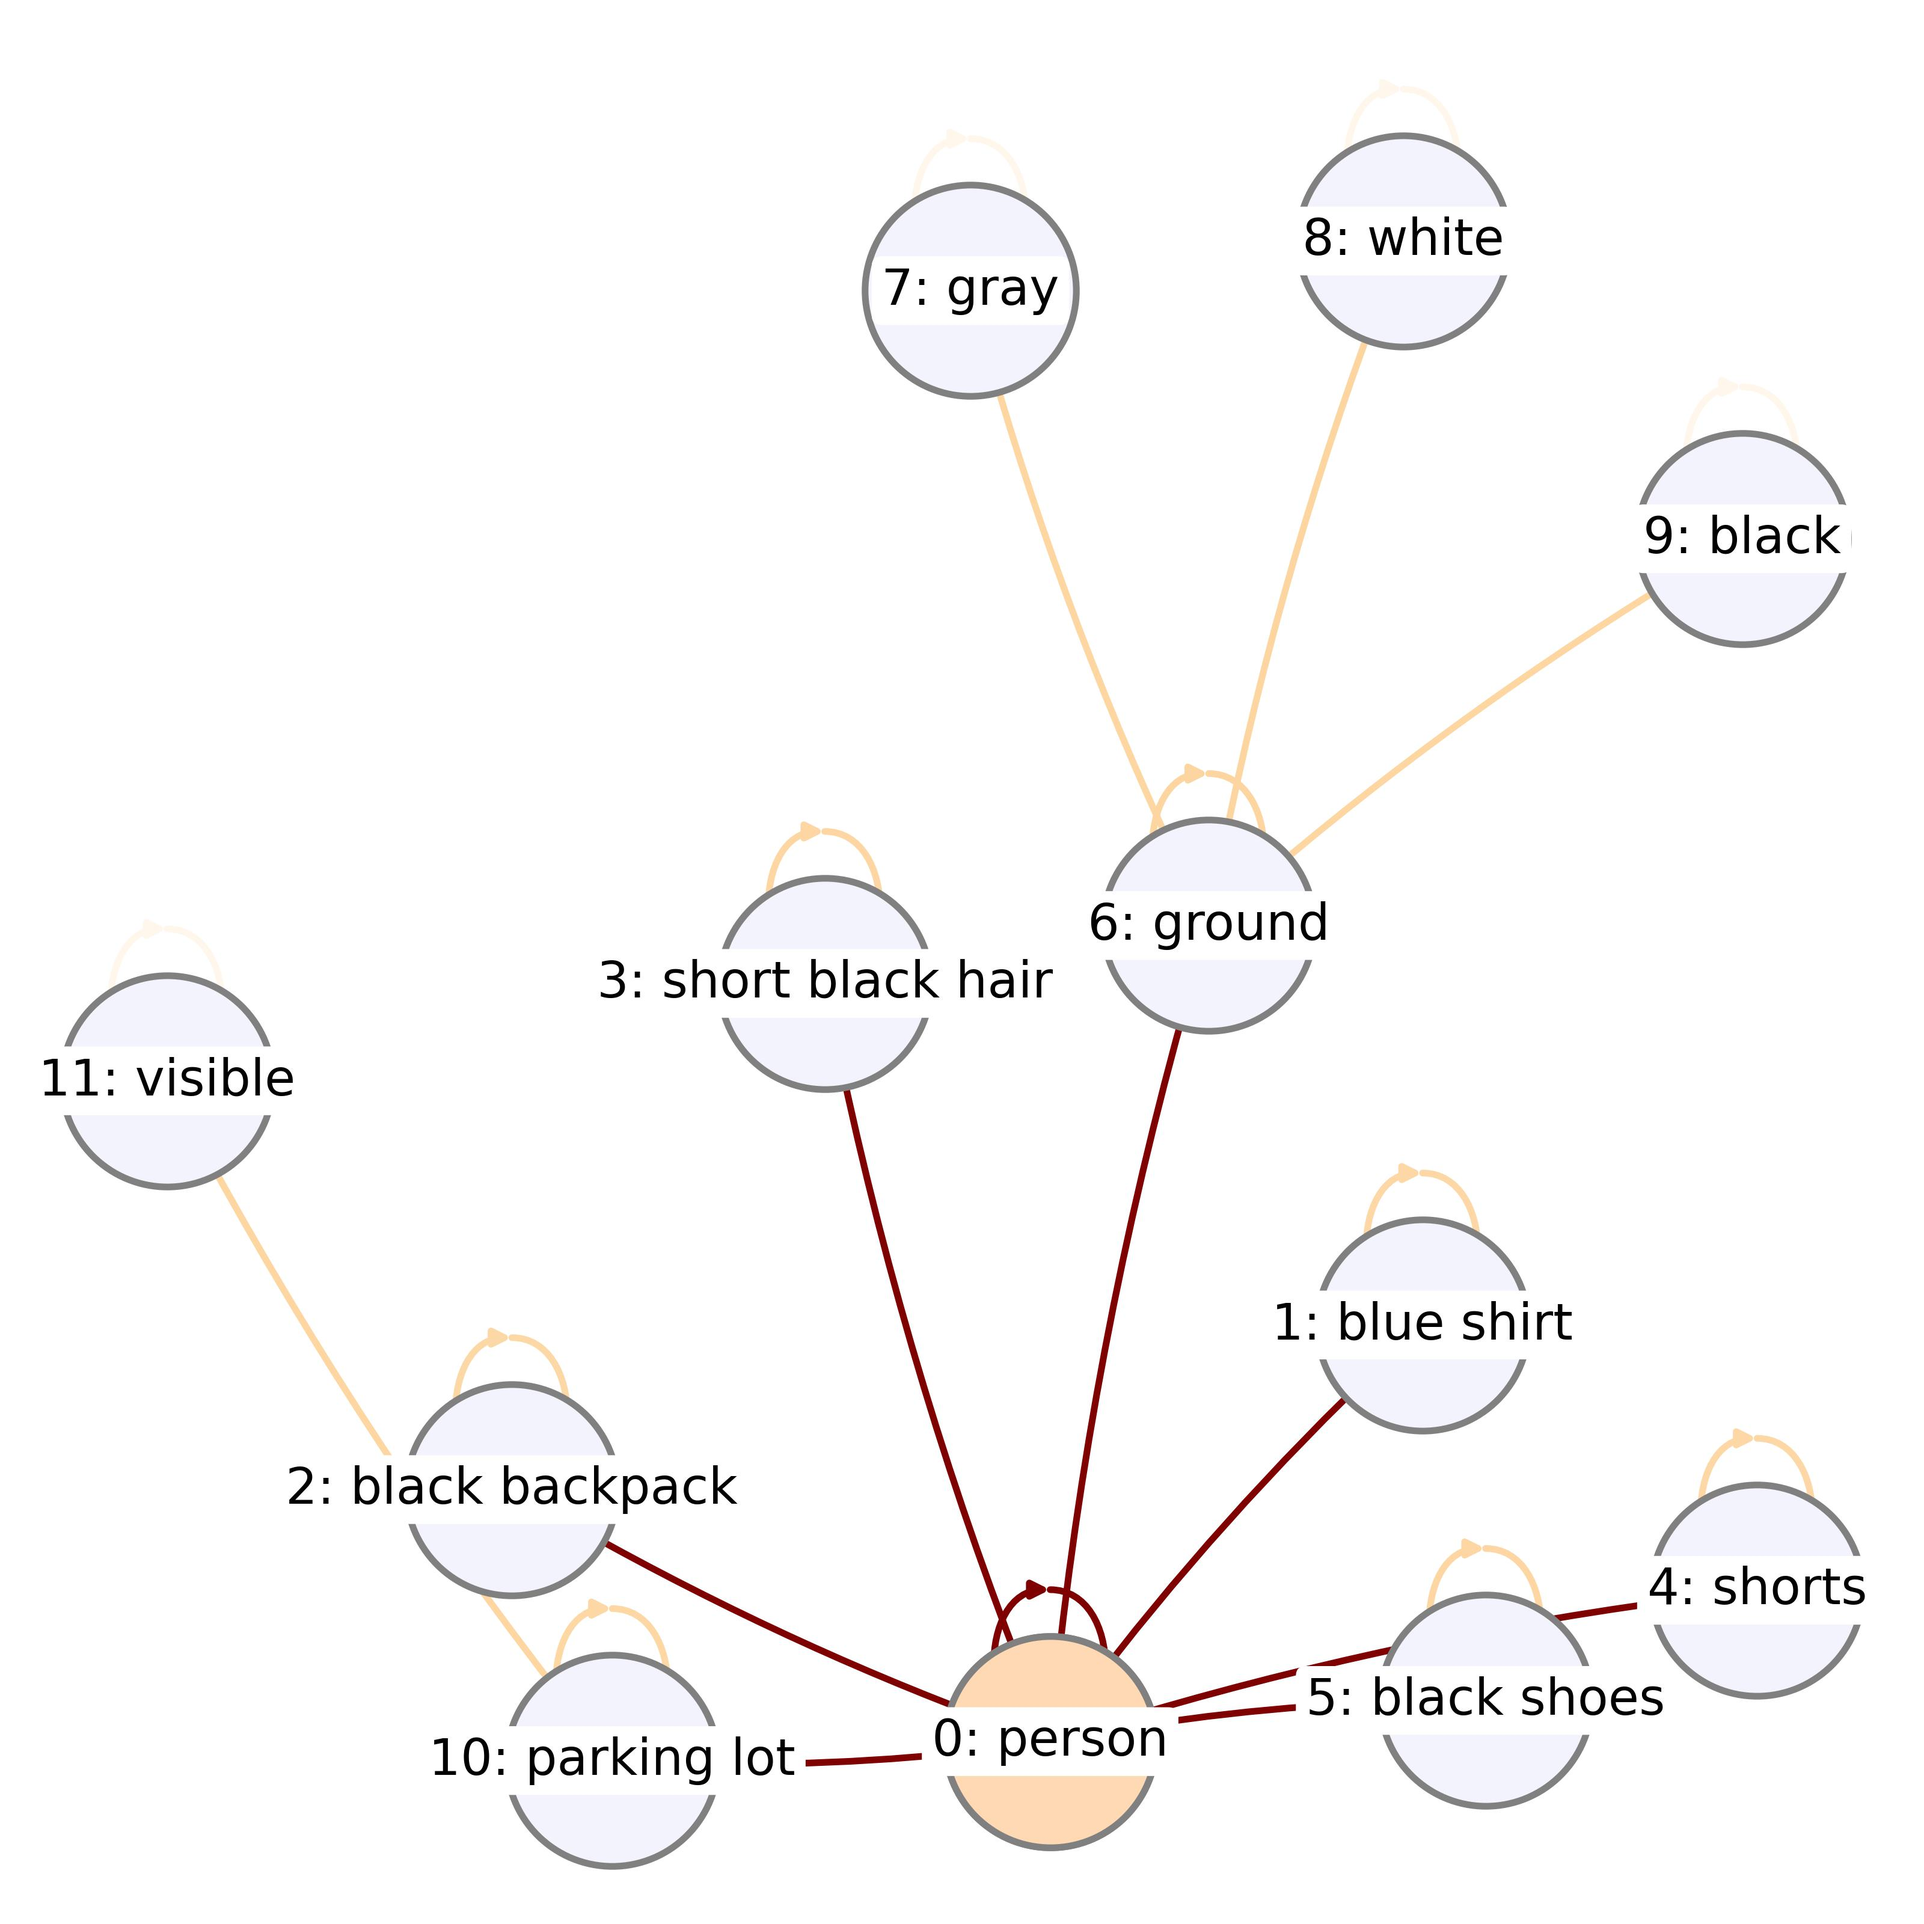
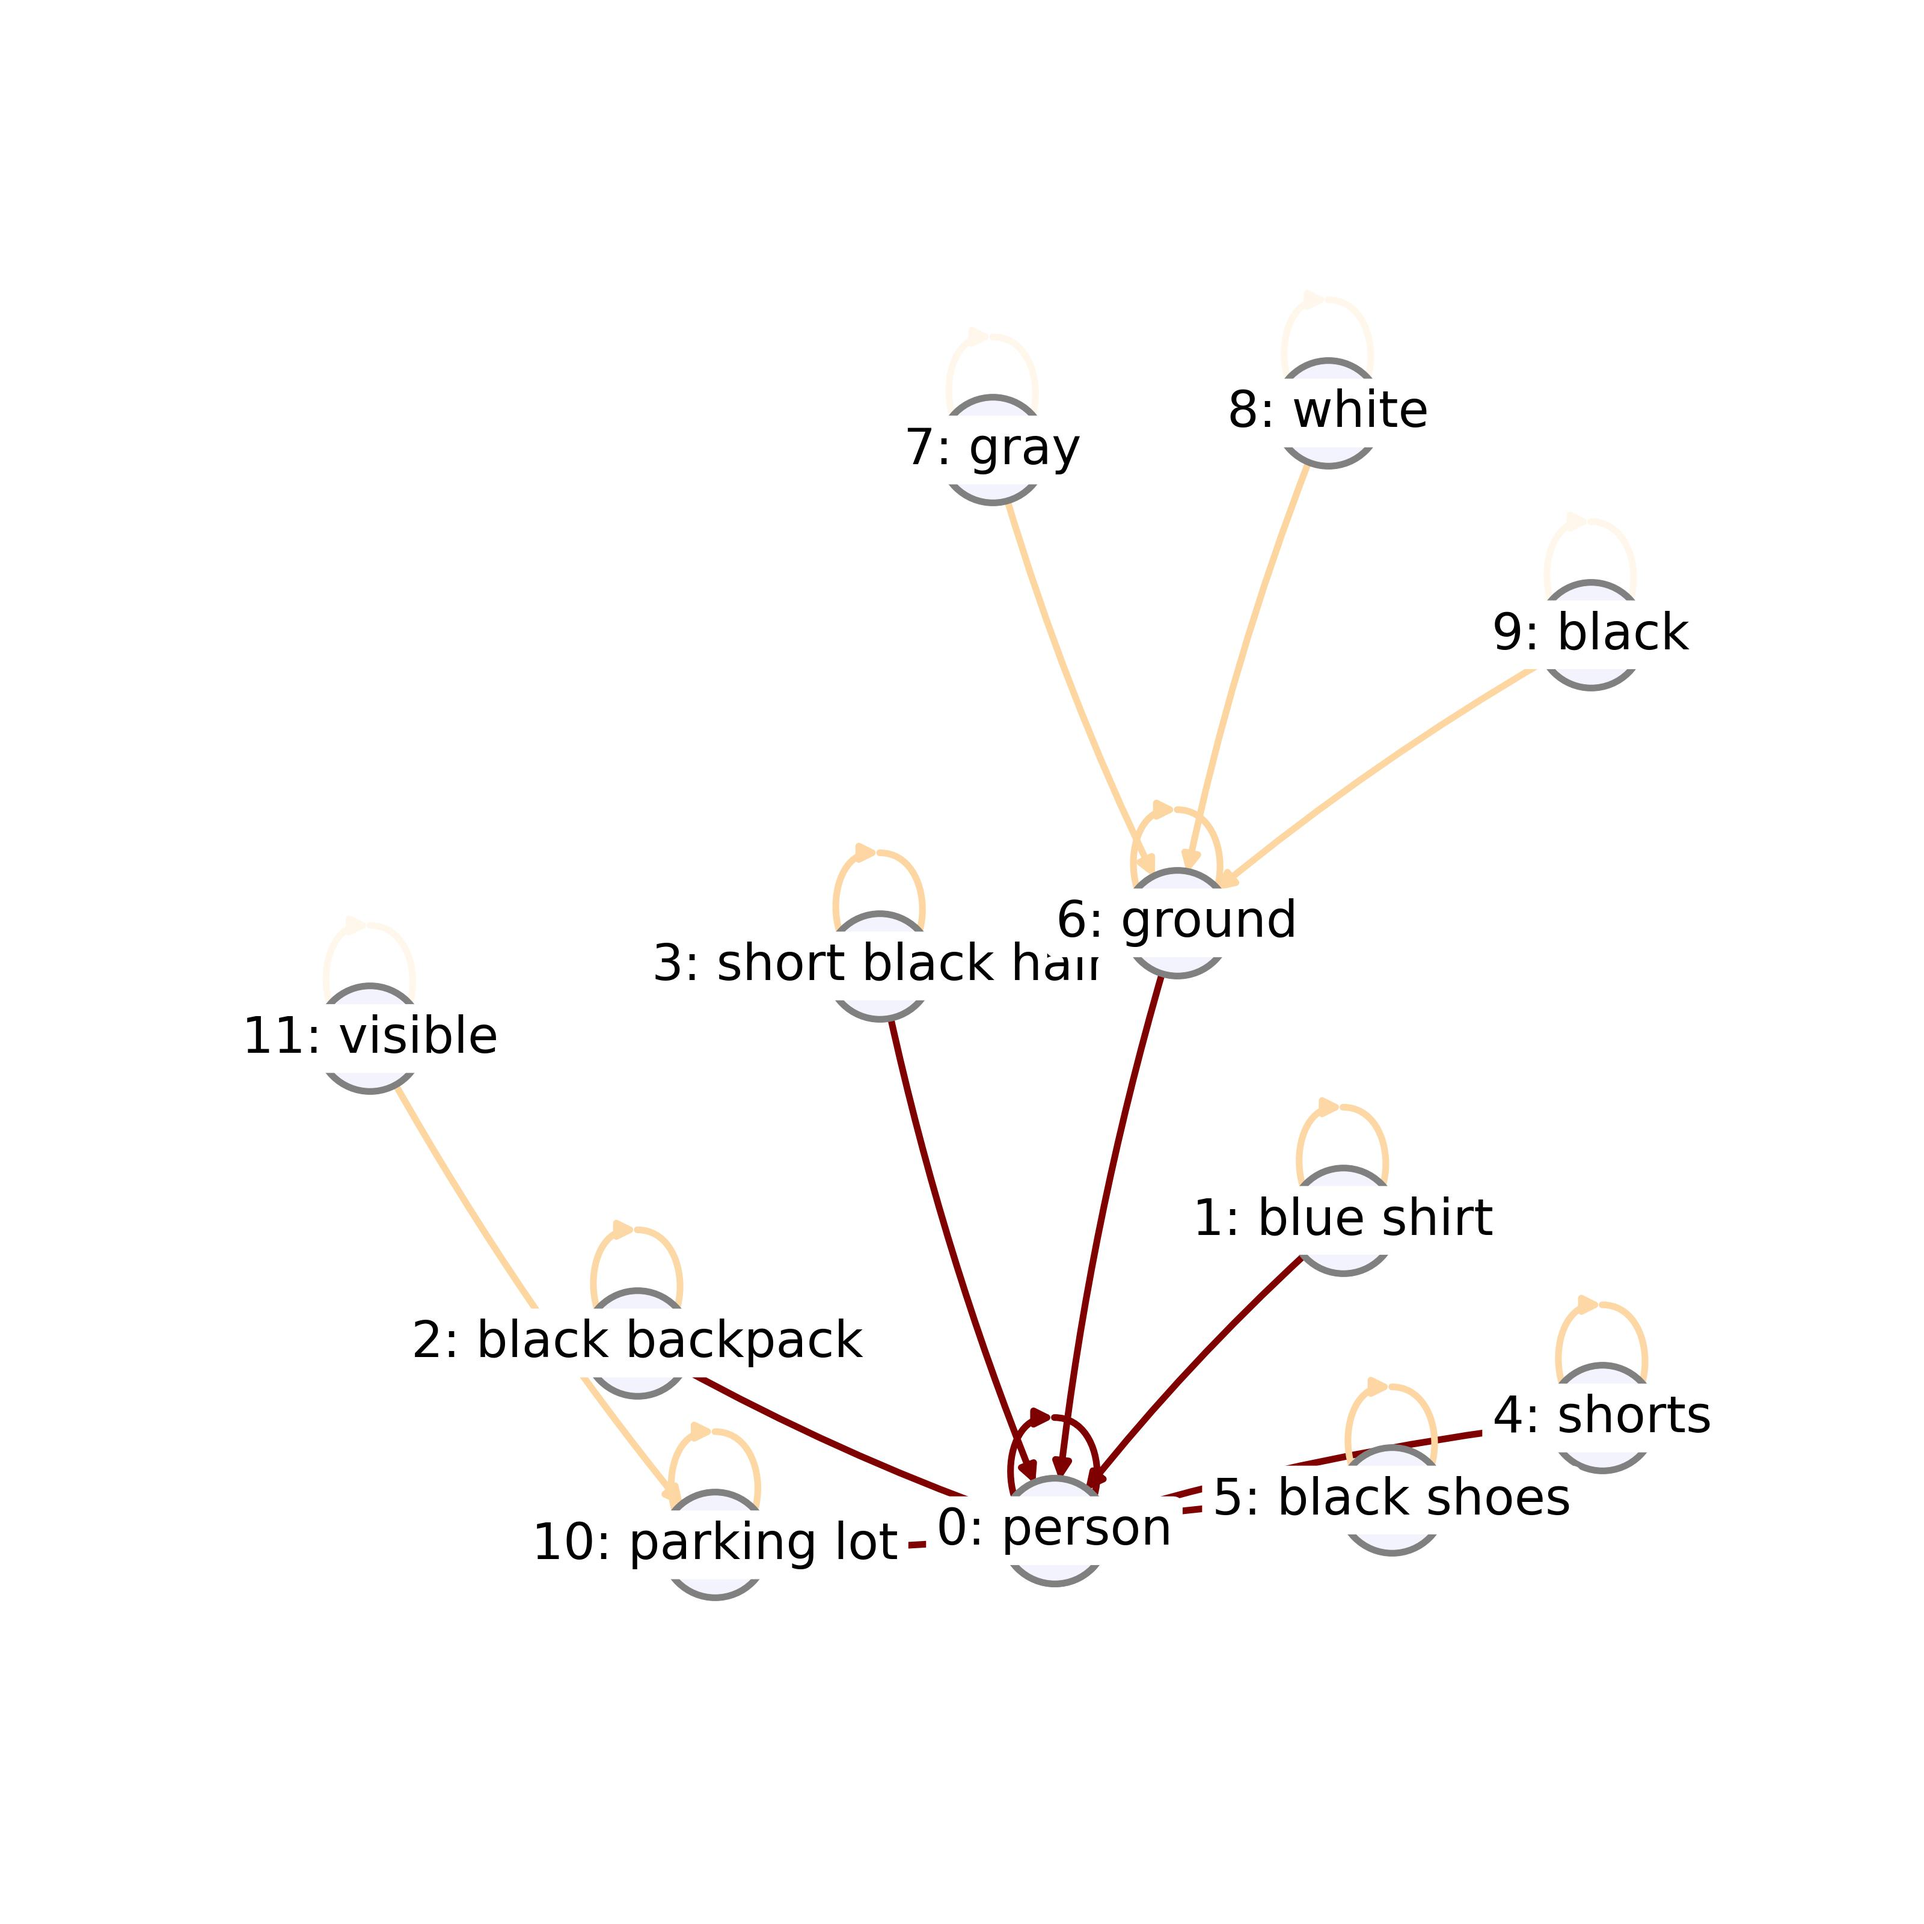
update inference plots

diff --git a/inference/vis_utils.py b/inference/vis_utils.py
@@ -327,14 +327,36 @@ def draw_local_comp_graph_with_attribution_scores_BAShapes(
     plt.figure(figsize=(8, 8), dpi=300)
     # Increase k and iterations to spread nodes further apart and reduce label overlap
     pos = nx.spring_layout(G, seed=0, k=1.5, iterations=200)
-    node_size = 4000
+    node_size = 1000
     arc_rad = 0.05
+
+
+    nx.draw_networkx_nodes(
+        G,
+        pos=pos,
+        nodelist=ground_truth_nodes,
+        node_color="#5152d0",
+        node_size=node_size,
+        linewidths=2,
+        edgecolors="gray",
+    )
+    nx.draw_networkx_nodes(
+        G,
+        pos=pos,
+        nodelist=[target_idx],
+        node_color="#FFD9B3",  # lighter orange
+        node_size=node_size,
+        edgecolors="gray",
+        linewidths=2,
+        label={node: node for node in subgraph_nodes},
+    )
+
     nx.draw(
         G,
         pos=pos,
         node_color="#F3F3FD",  # lighter color
         node_size=node_size,
-        width=1,
+        width=3,
         edgecolors="gray",
         linewidths=2,
         edge_color="white",
@@ -374,25 +396,6 @@ def draw_local_comp_graph_with_attribution_scores_BAShapes(
         connectionstyle=f"arc3, rad = {arc_rad}",
         min_target_margin=15,
         min_source_margin=15,
-    )
-    nx.draw_networkx_nodes(
-        G,
-        pos=pos,
-        nodelist=ground_truth_nodes,
-        node_color="#5152d0",
-        node_size=node_size,
-        linewidths=2,
-        edgecolors="gray",
-    )
-    nx.draw_networkx_nodes(
-        G,
-        pos=pos,
-        nodelist=[target_idx],
-        node_color="#FFD9B3",  # lighter orange
-        node_size=node_size,
-        edgecolors="gray",
-        linewidths=2,
-        label={node: node for node in subgraph_nodes},
     )
 
     # Save the plot to a file
